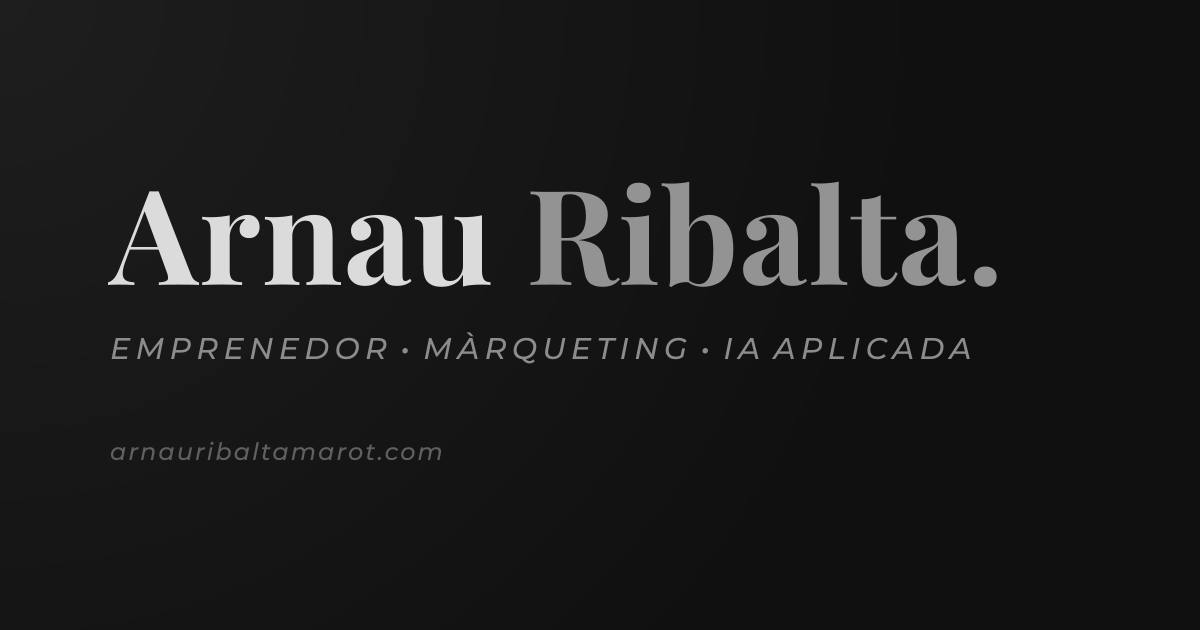
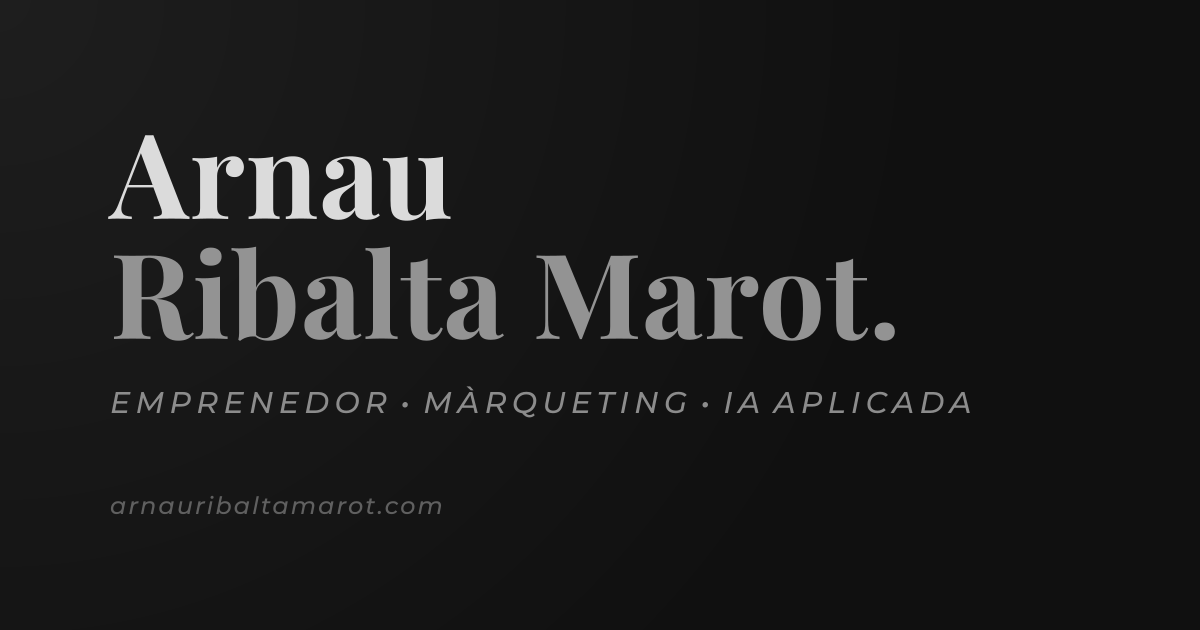
feat: nombre completo, Instagram y ajustes de cabecera
- «Arnau Ribalta Marot» en la portada, la cabecera, los títulos de pestaña,
  los textos alternativos y las imágenes Open Graph
- Enlace a Instagram (@arnauribalta) junto a LinkedIn, también en el JSON-LD
- La cabecera pasa al botón «Menú» por debajo de 860 px para que el nombre quepa

diff --git a/src/scripts/menu.ts b/src/scripts/menu.ts
@@ -17,7 +17,7 @@ if (dialog && opener) {
   });
 
   // Si la ventana se ensancha con el menú abierto, se cierra.
-  window.matchMedia("(min-width: 768px)").addEventListener("change", (e) => {
+  window.matchMedia("(min-width: 860px)").addEventListener("change", (e) => {
     if (e.matches && dialog.open) dialog.close();
   });
 }
